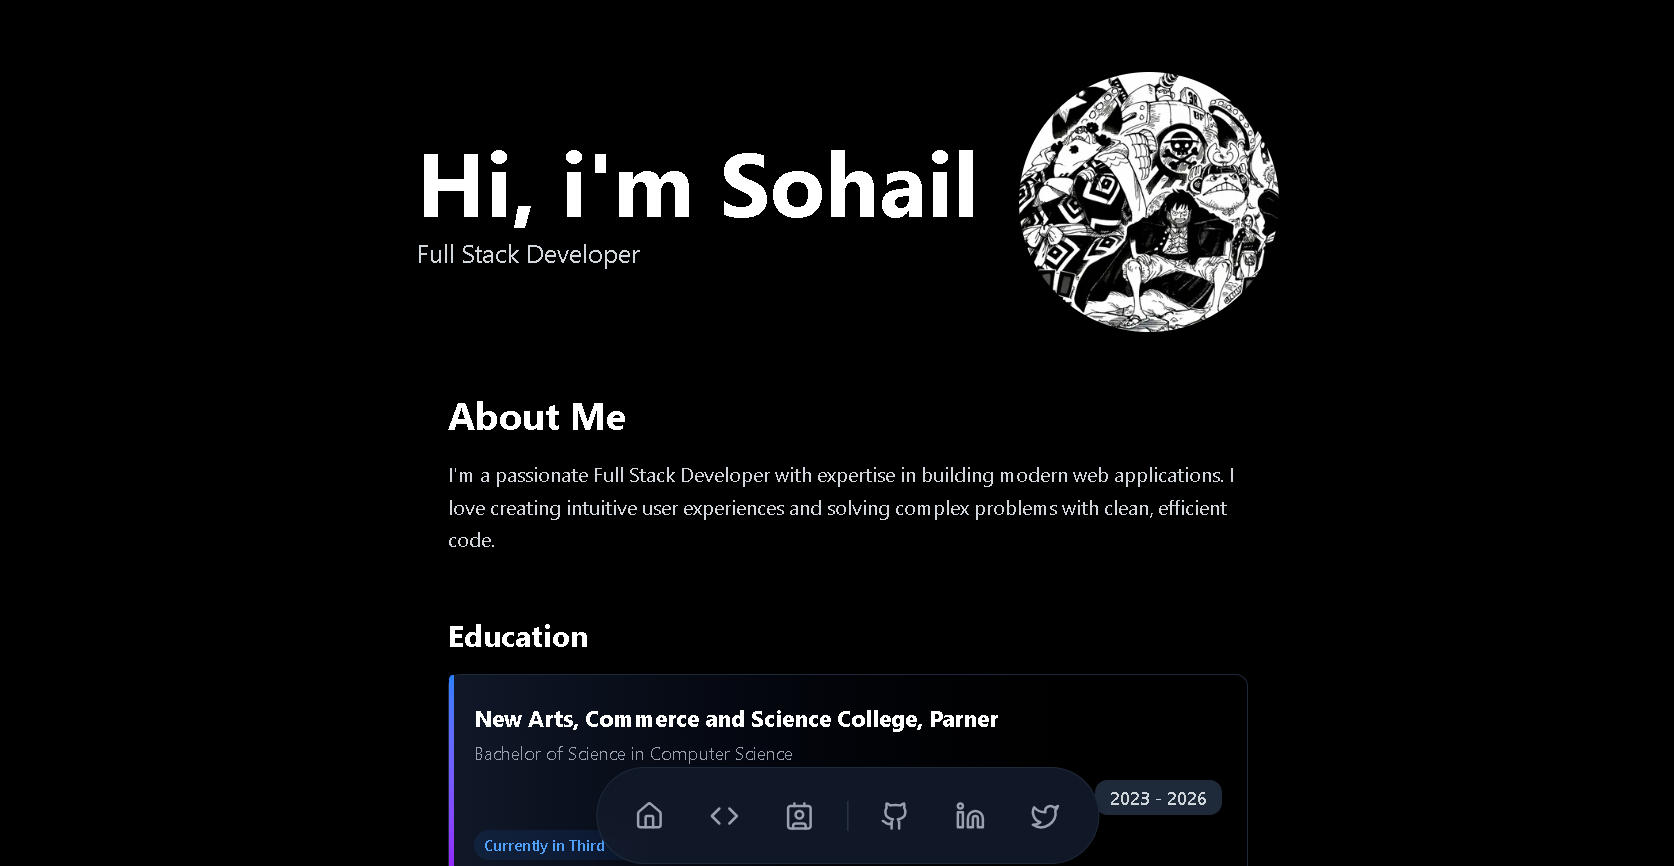
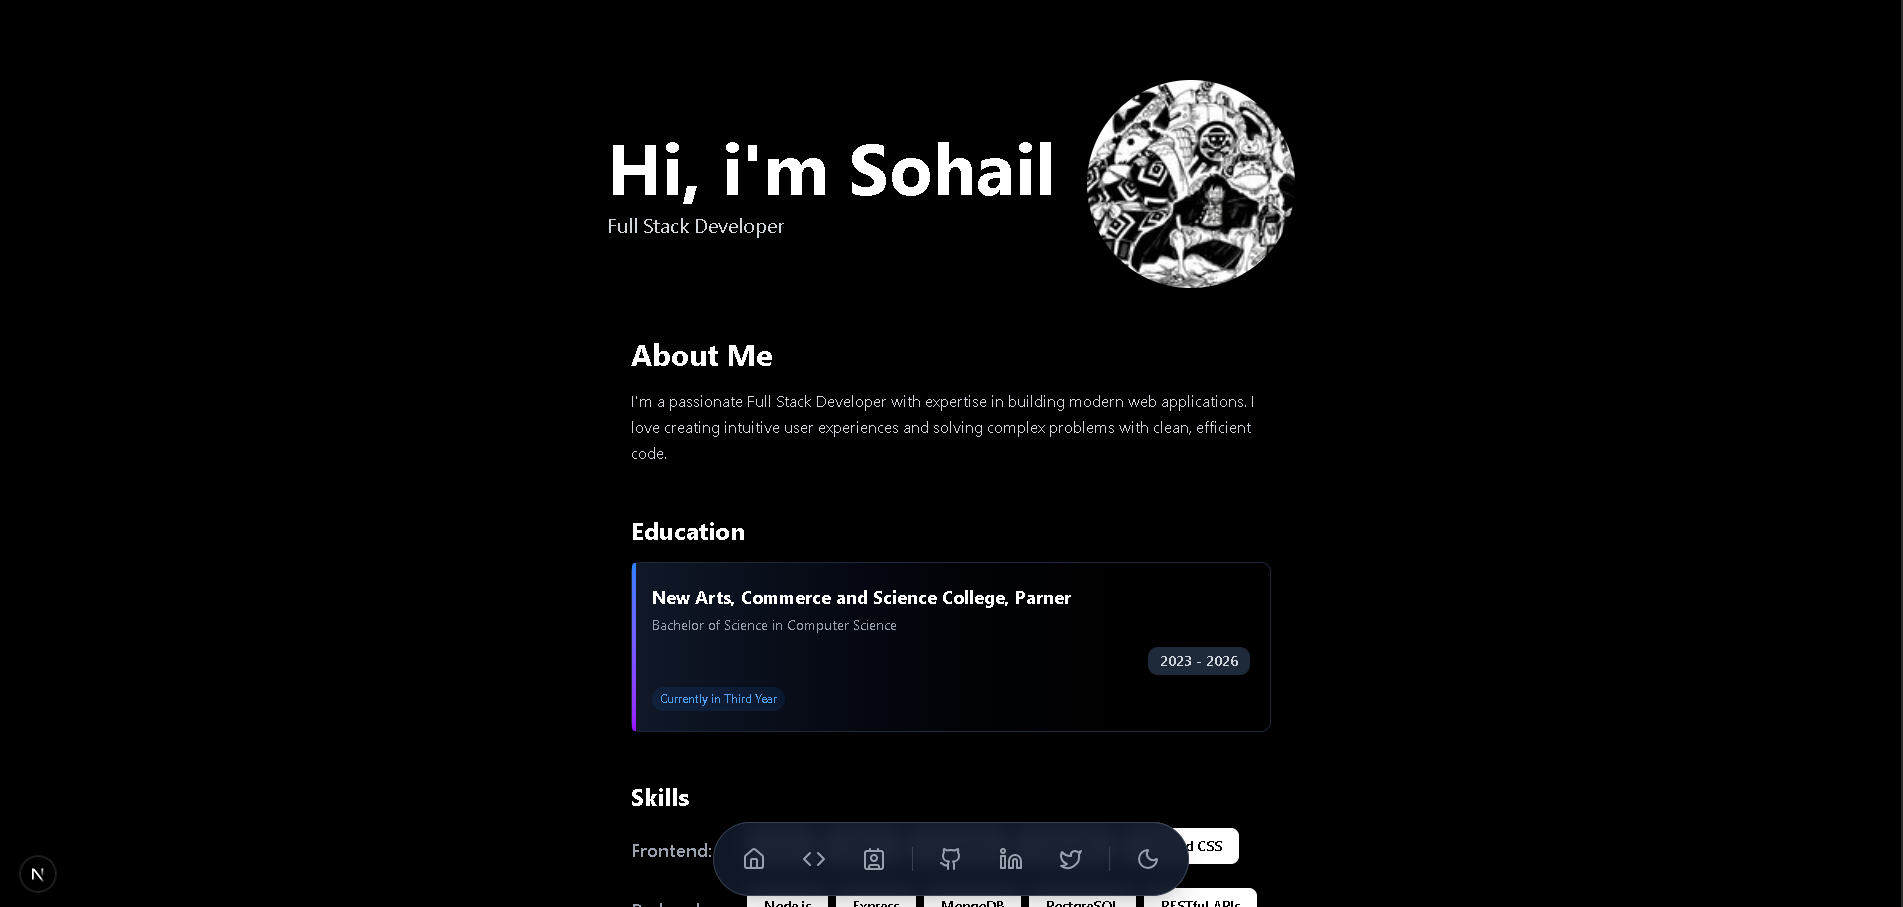
Updated Readme file

diff --git a/README.md b/README.md
@@ -1,21 +1,21 @@
-# 🚀 Sohail Shaikh - Portfolio Website
+# Sohail Shaikh - Portfolio Website
 
 A modern, responsive portfolio website built with Next.js 16, showcasing my projects, skills, and experience as a Full Stack Developer.
 
 ![Profile](./public/Images/profile.png)
 
-## ✨ Features
+## Features
 
-- 🎨 **Modern Dark Theme** - Sleek black and gray color scheme with gradient accents
-- 📱 **Fully Responsive** - Optimized for all device sizes (mobile, tablet, desktop)
-- 🎯 **Smooth Navigation** - Floating toolbar with smooth scrolling to sections
-- 💼 **Project Showcase** - Display of featured projects with live demos and GitHub links
-- 📧 **Contact Form** - Integrated contact form with email functionality using Nodemailer
-- 🛠 **Skills Section** - Organized display of frontend, backend, and tool proficiencies
-- 🎓 **Education Information** - Current academic background and achievements
-- 🔗 **Social Links** - Quick access to GitHub, LinkedIn, and Twitter profiles
+- Modern Dark/Light Theme - Seamless theme switching with next-themes
+- Fully Responsive - Optimized for all device sizes (mobile, tablet, desktop)
+- Smooth Navigation - Floating toolbar with smooth scrolling to sections
+- Project Showcase - Display of featured projects with live demos and GitHub links
+- Contact Form - Integrated contact form with email functionality using Nodemailer
+- Skills Section - Organized display of frontend, backend, and tool proficiencies
+- Education Information - Current academic background and achievements
+- Social Links - Quick access to GitHub, LinkedIn, and Twitter profiles
 
-## 📸 Screenshots
+## Screenshots
 
 ### Projects Section
 ![Projects](./public/Images/project.png)
@@ -23,7 +23,7 @@ A modern, responsive portfolio website built with Next.js 16, showcasing my proj
 ### Contact Section
 ![Contact](./public/Images/Conatact.png)
 
-## 🛠 Tech Stack
+## Tech Stack
 
 ### Frontend
 - **Next.js 16.1.0** - React framework with App Router
@@ -32,6 +32,7 @@ A modern, responsive portfolio website built with Next.js 16, showcasing my proj
 - **Tailwind CSS 4** - Utility-first CSS framework
 - **Radix UI** - Accessible component primitives
 - **Lucide React** - Beautiful icon library
+- **next-themes** - Theme management system
 
 ### Backend
 - **Node.js** - Server runtime
@@ -43,7 +44,7 @@ A modern, responsive portfolio website built with Next.js 16, showcasing my proj
 - **PostCSS** - CSS processing
 - **TypeScript 5** - Type checking
 
-## 🚀 Getting Started
+## Getting Started
 
 ### Prerequisites
 
@@ -85,7 +86,7 @@ npm run build
 npm start
 ```
 
-## 📁 Project Structure
+## Project Structure
 
 ```
 portofolio/
@@ -101,10 +102,13 @@ portofolio/
 │   │   ├── Contact.tsx           # Contact form component
 │   │   ├── FloatingToolbar.tsx   # Navigation toolbar
 │   │   ├── HeroSection.tsx       # Main hero section
-│   │   └── ProjectCard.tsx       # Project card component
+│   │   ├── ProjectCard.tsx       # Project card component
+│   │   ├── theme-provider.tsx    # Theme provider wrapper
+│   │   └── theme-modes.tsx       # Theme toggle component
 │   └── ui/
 │       ├── button.tsx            # Reusable button component
-│       └── card.tsx              # Reusable card component
+│       ├── card.tsx              # Reusable card component
+│       └── dropdown-menu.tsx     # Dropdown menu component
 ├── constants/
 │   ├── projects.ts               # Project data
 │   └── skills.ts                 # Skills data
@@ -115,13 +119,22 @@ portofolio/
 └── README.md
 ```
 
-## 🎯 Key Features Breakdown
+## Key Features Breakdown
+
+### Theme Switching
+- Toggle between light and dark modes
+- Persistent theme preference using localStorage
+- System theme detection
+- Smooth transitions between themes
+- All components fully themed
 
 ### Floating Toolbar
 - Smooth scroll navigation to different sections
+- Theme toggle button with sun/moon icon animation
 - Links to social media profiles (GitHub, LinkedIn, Twitter)
 - Responsive design with hover effects and tooltips
 - Fixed positioning for easy access
+- Adapts colors based on active theme
 
 ### Projects Section
 - **Expense Tracker** - Full-stack MERN application with JWT auth and Razorpay integration
@@ -131,19 +144,22 @@ portofolio/
   - GitHub repository link
   - Technology stack badges
   - Project description
+  - Theme-aware styling
 
 ### Skills Display
 - **Frontend:** React, Next.js, JavaScript, TypeScript, Tailwind CSS
 - **Backend:** Node.js, Express, MongoDB, SQL, RESTful APIs
 - **Tools:** Git, GitHub, VS Code, Postman
+- Interactive skill buttons with theme-aware colors
 
 ### Contact Form
 - Server-side email handling
 - Form validation
 - Responsive design
 - Error handling
+- Theme-aware styling
 
-## 🎨 Customization
+## Customization
 
 ### Updating Projects
 Edit `constants/projects.ts` to add or modify projects:
@@ -173,24 +189,27 @@ export const skills = {
 }
 ```
 
-## 🔗 Links
+### Customizing Theme Colors
+Edit `app/globals.css` to modify theme colors for both light and dark modes.
+
+## Links
 
 - **GitHub:** [@sohailshaikh7860](https://github.com/sohailshaikh7860)
 - **LinkedIn:** [Sohail Shaikh](https://linkedin.com/in/sohailshaikh786)
 - **Twitter:** [@Sohaildevs](https://twitter.com/Sohaildevs)
 
-## 📝 License
+## License
 
 This project is open source and available for personal use.
 
-## 👨💻 About Me
+## About Me
 
 Hi! I'm Sohail Shaikh, a passionate Full Stack Developer currently pursuing Bachelor of Science in Computer Science at New Arts, Commerce and Science College, Parner (2023-2026). I love creating intuitive user experiences and solving complex problems with clean, efficient code.
 
-## 🤝 Contributing
+## Contributing
 
 Feel free to fork this project and customize it for your own portfolio! If you find any bugs or have suggestions, please open an issue.
 
-## 📧 Contact
+## Contact
 
 For any inquiries, feel free to reach out through the contact form on the website or connect with me on social media.
